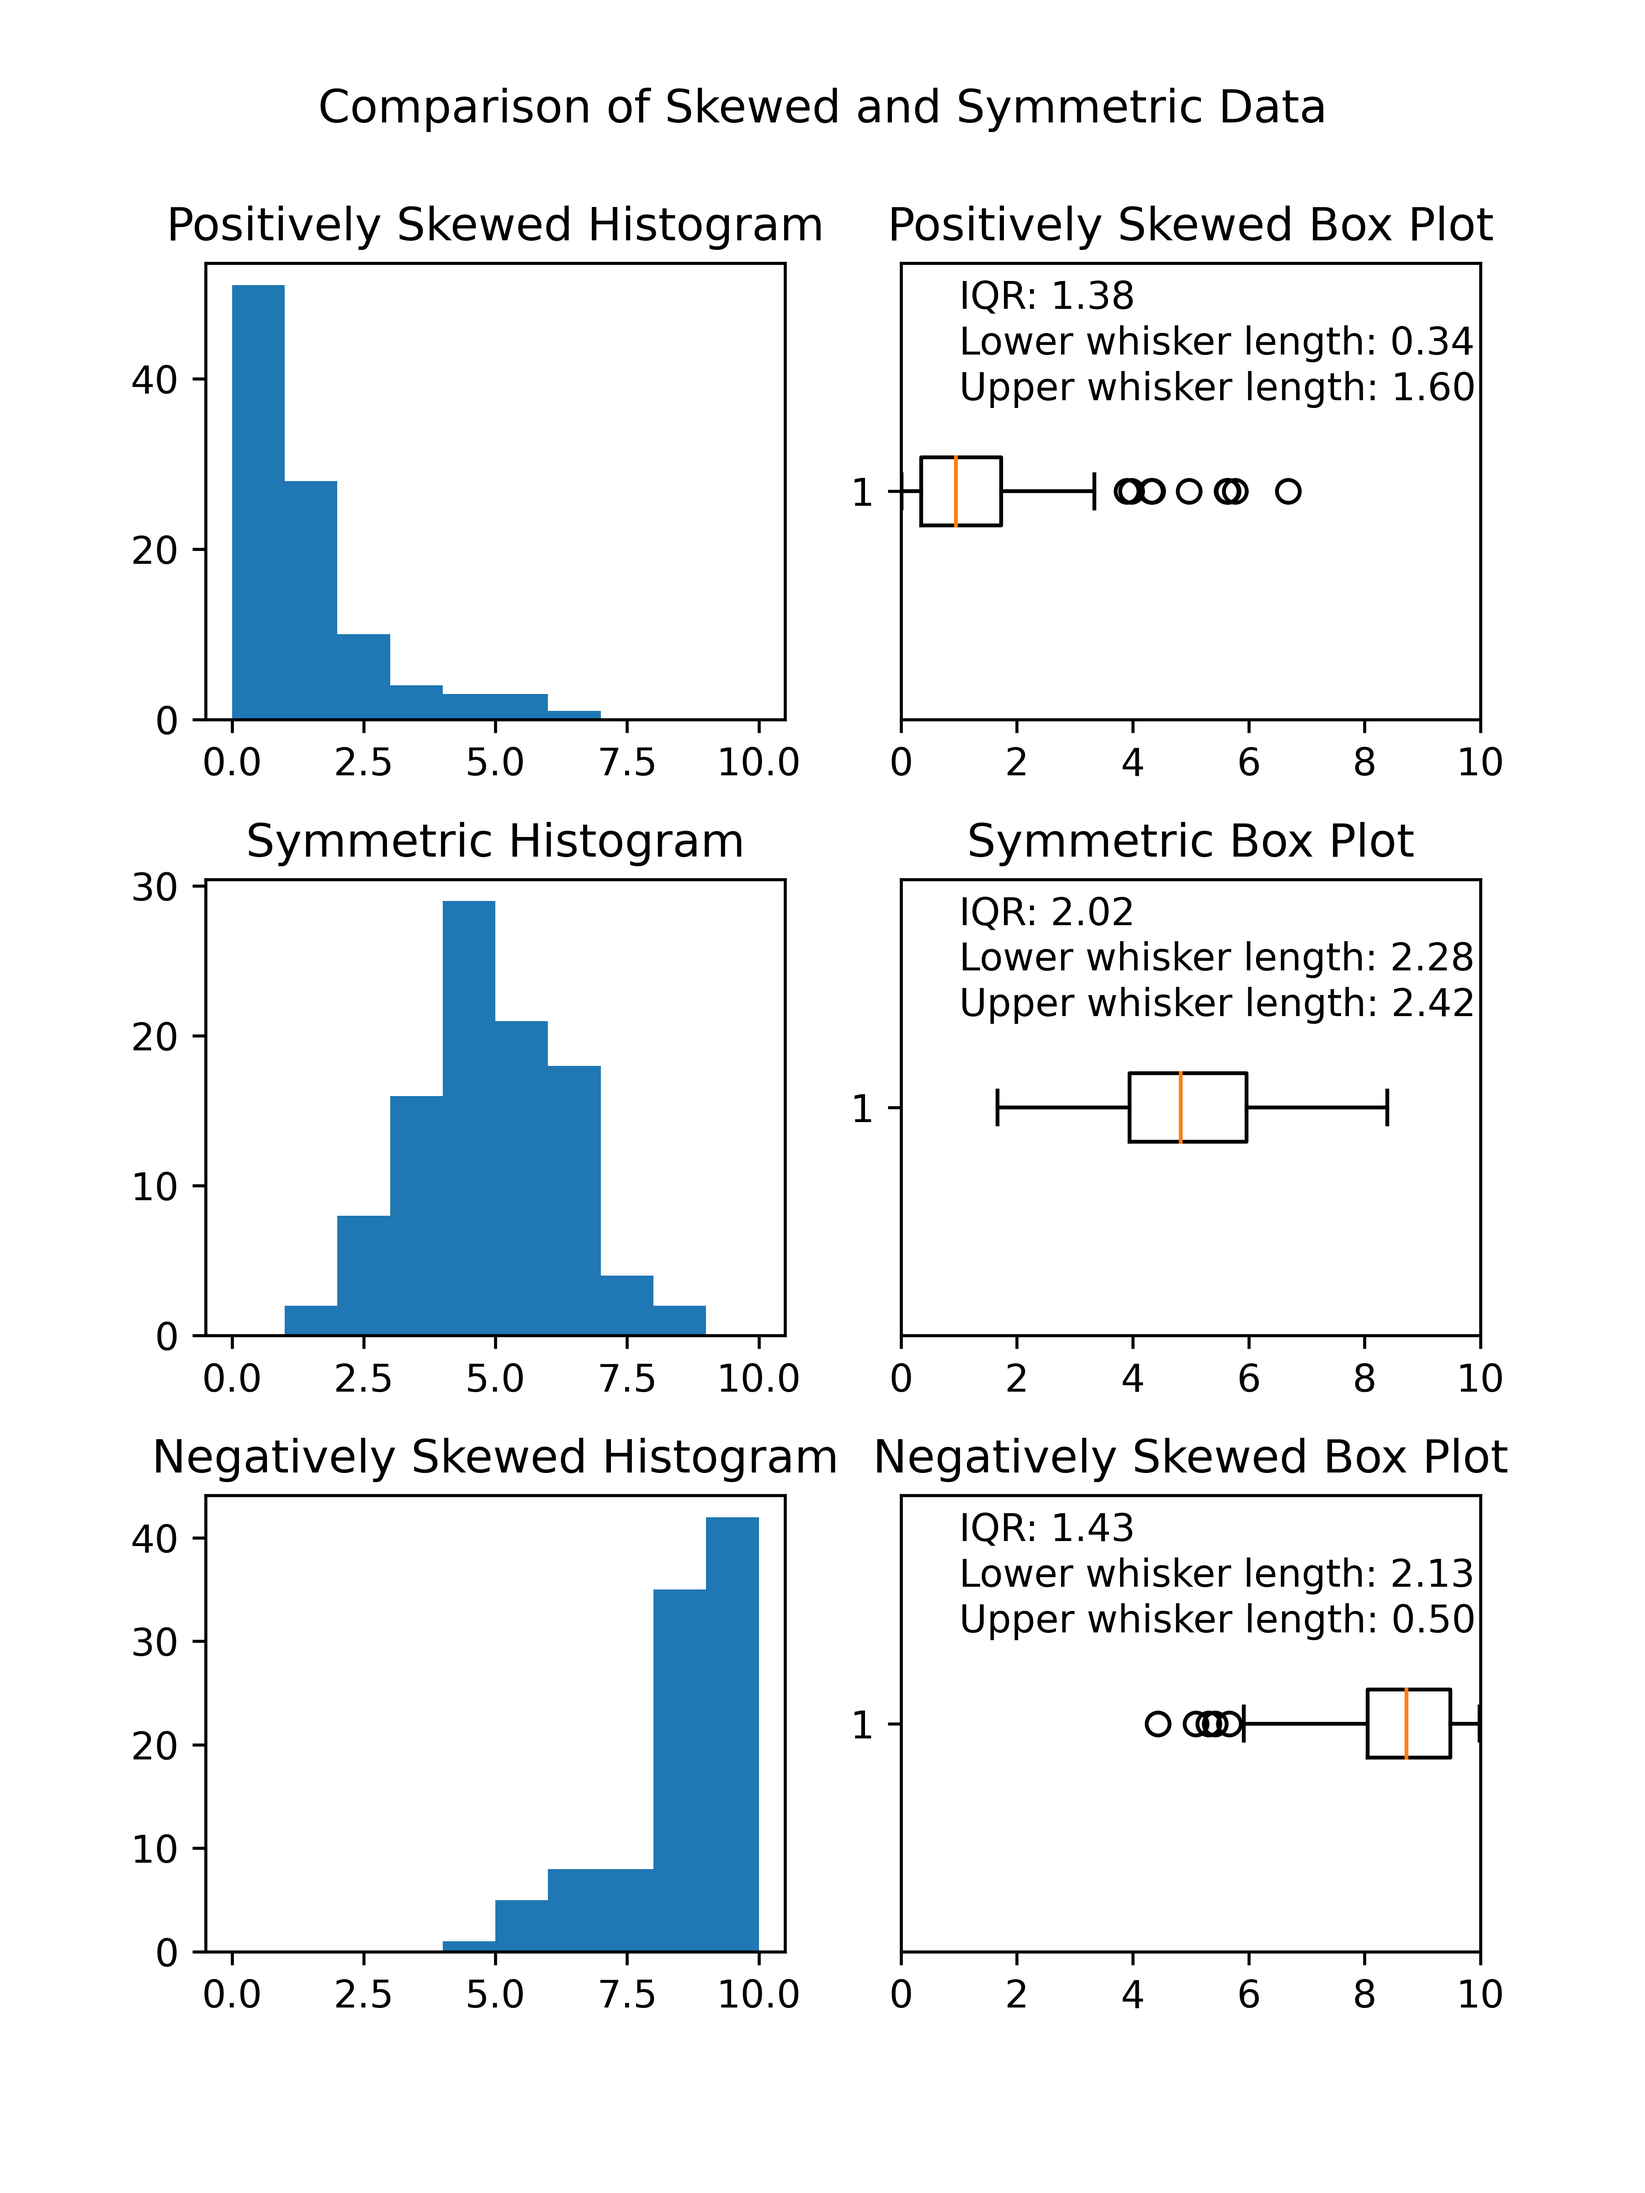
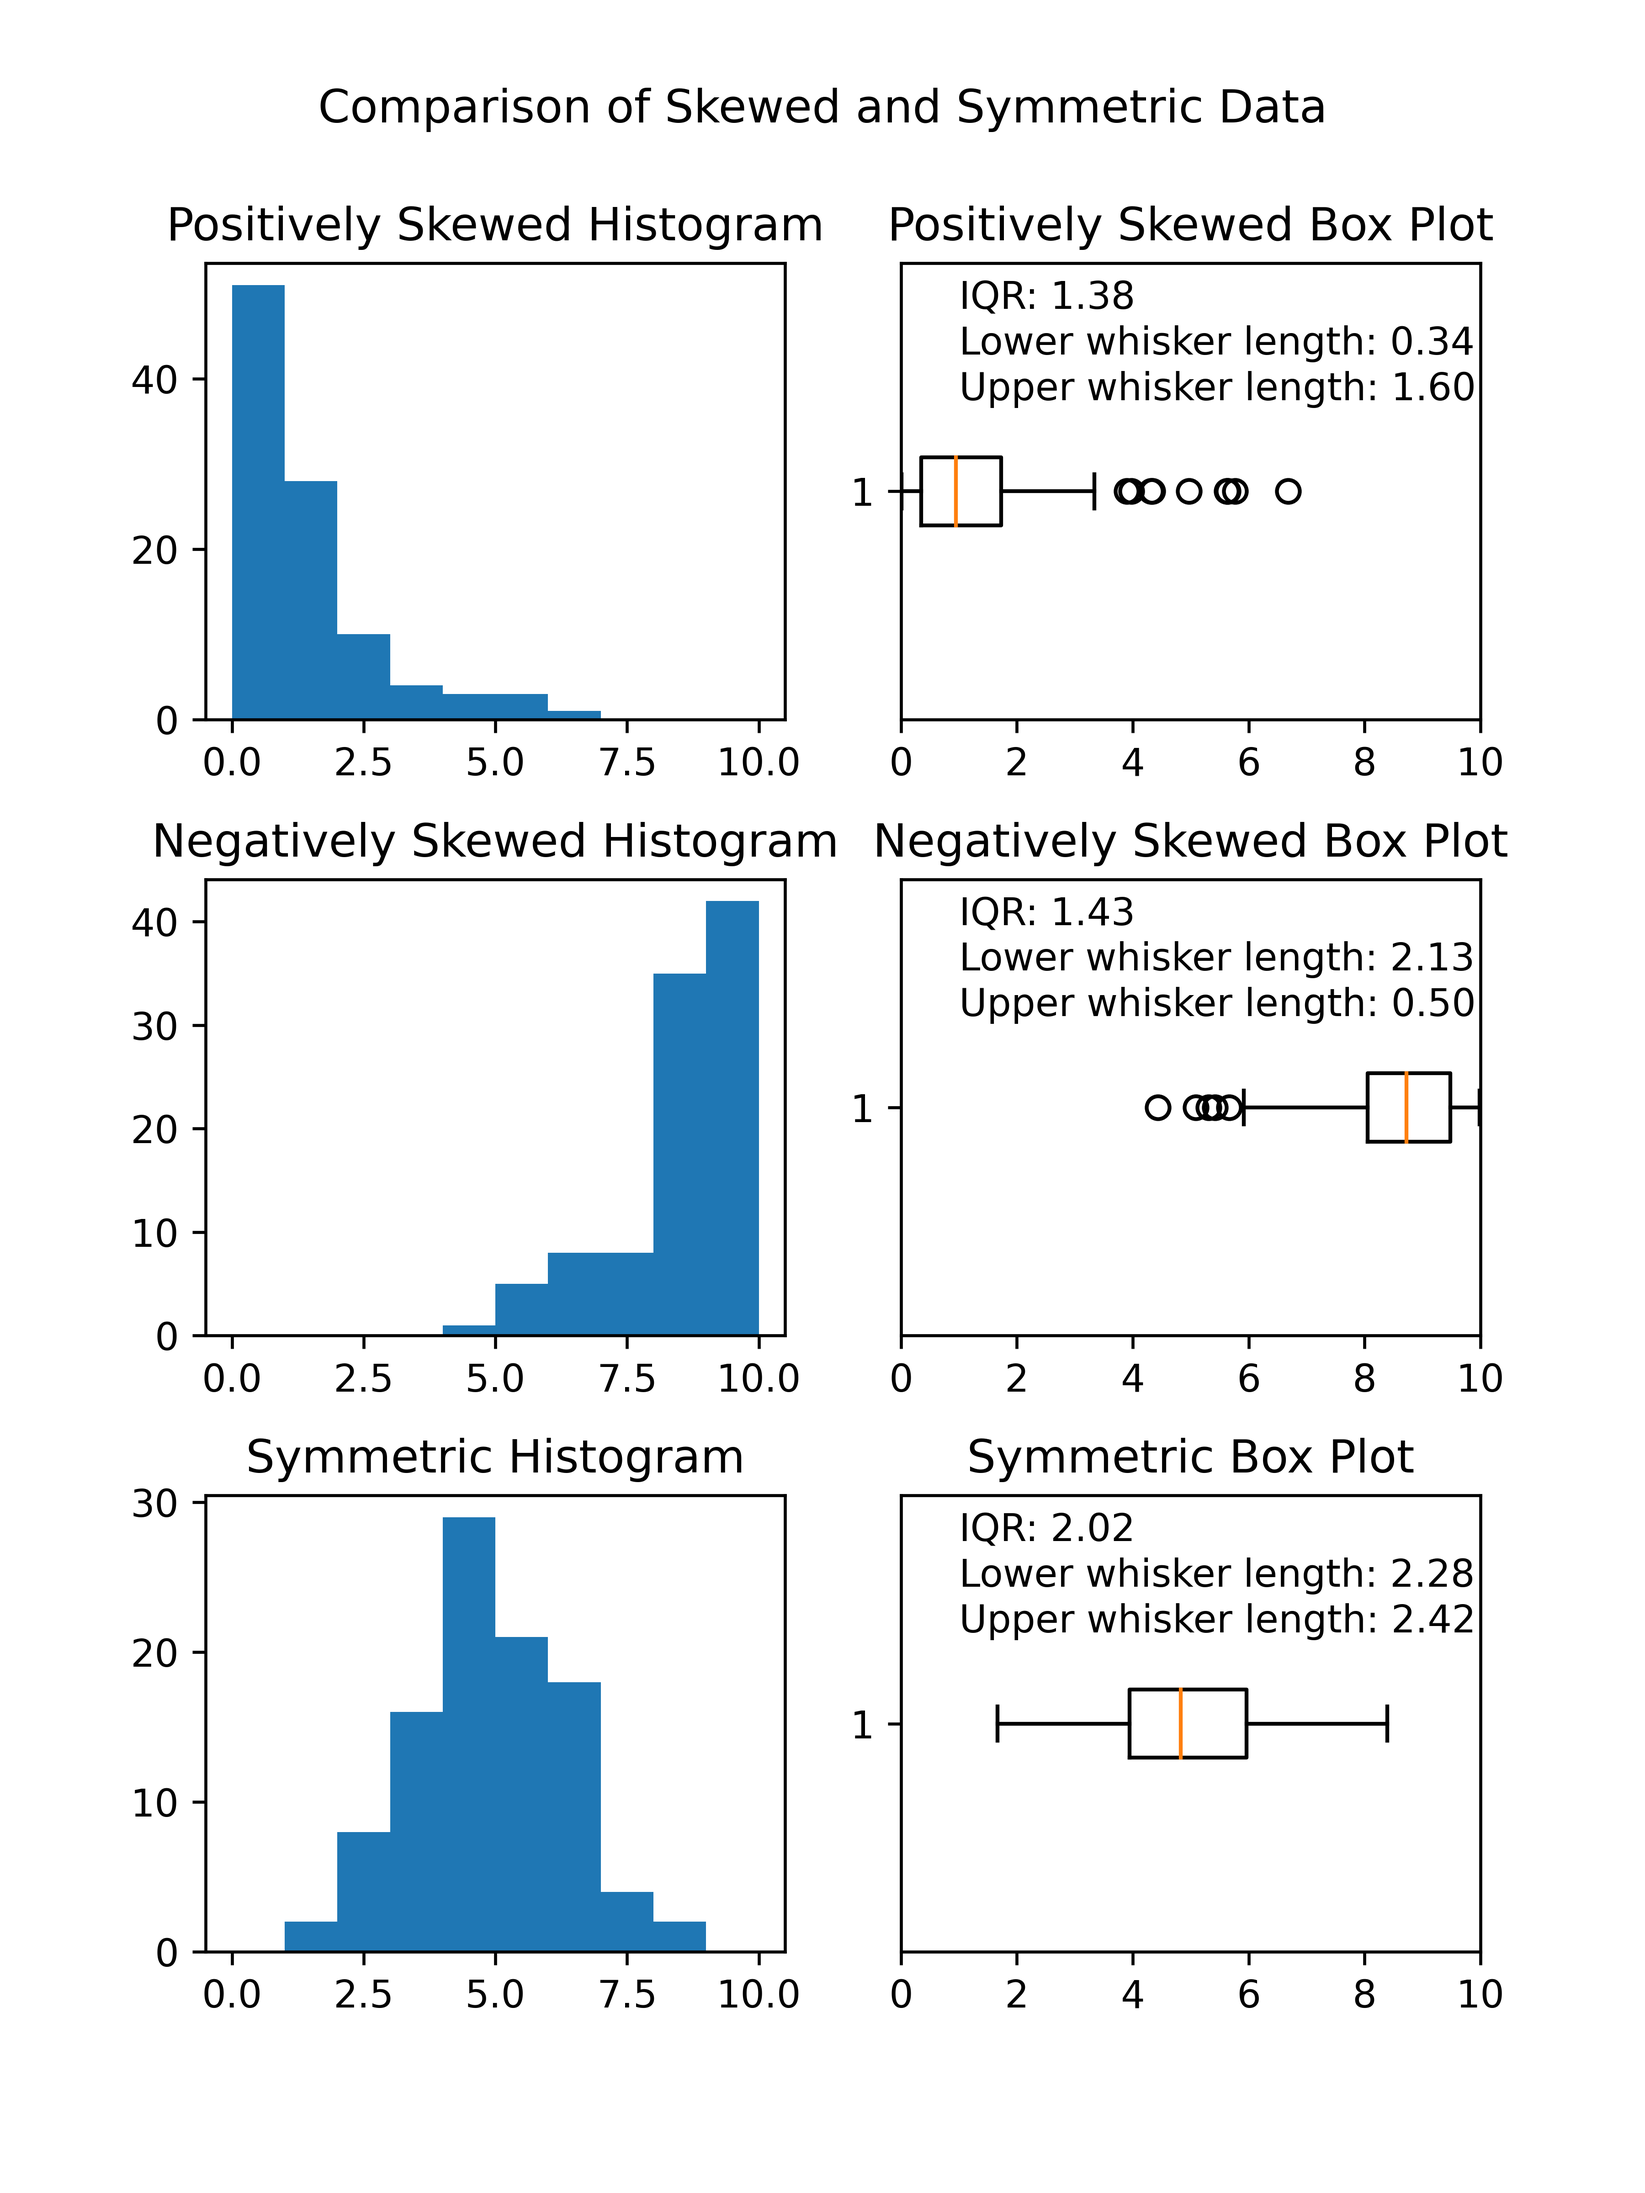
up

diff --git a/docs/matplotlib/files/box_plots_compared_v2.py b/docs/matplotlib/files/box_plots_compared_v2.py
@@ -1,0 +1,101 @@
+import numpy as np
+import matplotlib.pyplot as plt
+from pathlib import Path
+
+
+def calculate_boxplot_stats(data):
+    """
+    Calculate box plot statistics for a given dataset.
+
+    This function takes an array of data as input and returns the interquartile range (IQR),
+    lower whisker length, and upper whisker length as a tuple.
+
+    Args:
+        data (array-like): An array of data to calculate box plot statistics for.
+
+    Returns:
+        tuple: A tuple containing the IQR, lower whisker length, and upper whisker length.
+    """
+    # Calculate the first and third quartiles
+    q1 = np.percentile(data, 25)
+    q3 = np.percentile(data, 75)
+    # Calculate the interquartile range (IQR)
+    iqr = q3 - q1
+    # Calculate the lower and upper bounds for outliers
+    lower_bound = q1 - 1.5 * iqr
+    upper_bound = q3 + 1.5 * iqr
+    # Calculate the adjacent values
+    adjacent_lower = np.min(data[data >= lower_bound])
+    adjacent_upper = np.max(data[data <= upper_bound])
+    # Calculate the length of the whiskers
+    lower_whisker_length = q1 - adjacent_lower
+    upper_whisker_length = adjacent_upper - q3
+    return iqr, lower_whisker_length, upper_whisker_length
+
+
+def multi_box_plot():
+    # Set the random seed for reproducibility
+    np.random.seed(0)
+
+    # Define the properties of each distribution
+    distributions = [
+        {
+            'data': np.random.gamma(shape=1, scale=1.5, size=100),
+            'hist_title': 'Positively Skewed Histogram',
+            'box_title': 'Positively Skewed Box Plot'
+        },
+        {
+            'data': 10 - np.random.gamma(shape=1, scale=1.5, size=100),
+            'hist_title': 'Negatively Skewed Histogram',
+            'box_title': 'Negatively Skewed Box Plot'
+        },
+        {
+            'data': np.random.normal(loc=5.0, scale=1.5, size=100),
+            'hist_title': 'Symmetric Histogram',
+            'box_title': 'Symmetric Box Plot'
+        }
+    ]
+
+    # Filter the data for each distribution
+    for dist in distributions:
+        dist['data'] = dist['data'][(dist['data'] >= 0) & (dist['data'] <= 10)]
+
+    # Create figure with 3x2 subplots
+    fig, axs = plt.subplots(nrows=3, ncols=2, figsize=(6, 8))
+    fig.subplots_adjust(hspace=0.35)
+    # Add title to figure
+    fig.suptitle('Comparison of Skewed and Symmetric Data', y=0.96)
+
+    # Create histogram and box plot for each distribution
+    for i, dist in enumerate(distributions):
+        axs[i, 0].hist(dist['data'], bins=10, range=(0, 10))
+        axs[i, 0].set_title(dist['hist_title'])
+        axs[i, 1].set_title(dist['box_title'])
+        axs[i, 1].boxplot(dist['data'], vert=False)
+        axs[i, 1].set_xlim([0, 10])
+
+        # Calculate the interquartile range (IQR) and whisker lengths
+        iqr, lower_whisker_length, upper_whisker_length = calculate_boxplot_stats(dist['data'])
+        # Add text labels for box plot statistics
+        axs[i, 1].text(1, 1.4, f'IQR: {iqr:.2f}')
+        axs[i, 1].text(1, 1.3, f'Lower whisker length: {lower_whisker_length:.2f}')
+        axs[i, 1].text(1, 1.2, f'Upper whisker length: {upper_whisker_length:.2f}')
+        
+    # Get the directory of the current file
+    currfile_dir = Path(__file__).parent
+    # Replace spaces in title with underscores to create filename for saving figure
+    title = "Skewed and Symmetric Data"
+    filename = title.replace(" ", "_")
+    # build the image file path
+    filepath = currfile_dir / (f"{filename}.png")
+    # Save figure (dpi 300 is good when saving so graph has high resolution)
+    plt.savefig(filepath, dpi=600)
+    # Show the plot on the screen
+    plt.show()
+
+
+
+# Call the main function if this file is run as a script
+if __name__ == "__main__":
+    # create figure and axes
+    multi_box_plot()

diff --git a/docs/matplotlib/matplotlib_box_plot.rst b/docs/matplotlib/matplotlib_box_plot.rst
@@ -63,5 +63,20 @@ Python code
 | The `size` argument specifies the number of random numbers to generate from the normal distribution. 
 
 
+Version 1 of code
+------------------
+
+| This version is simple to read, but can be simplifed to reduce repetive code.
+
 .. literalinclude:: files/box_plots_compared.py
+    :linenos:
+
+----
+
+Version 12 of code
+------------------
+
+| This version may be trickier to read at first go, but removes repetive code.
+
+.. literalinclude:: files/box_plots_compared_v2.py
     :linenos:
